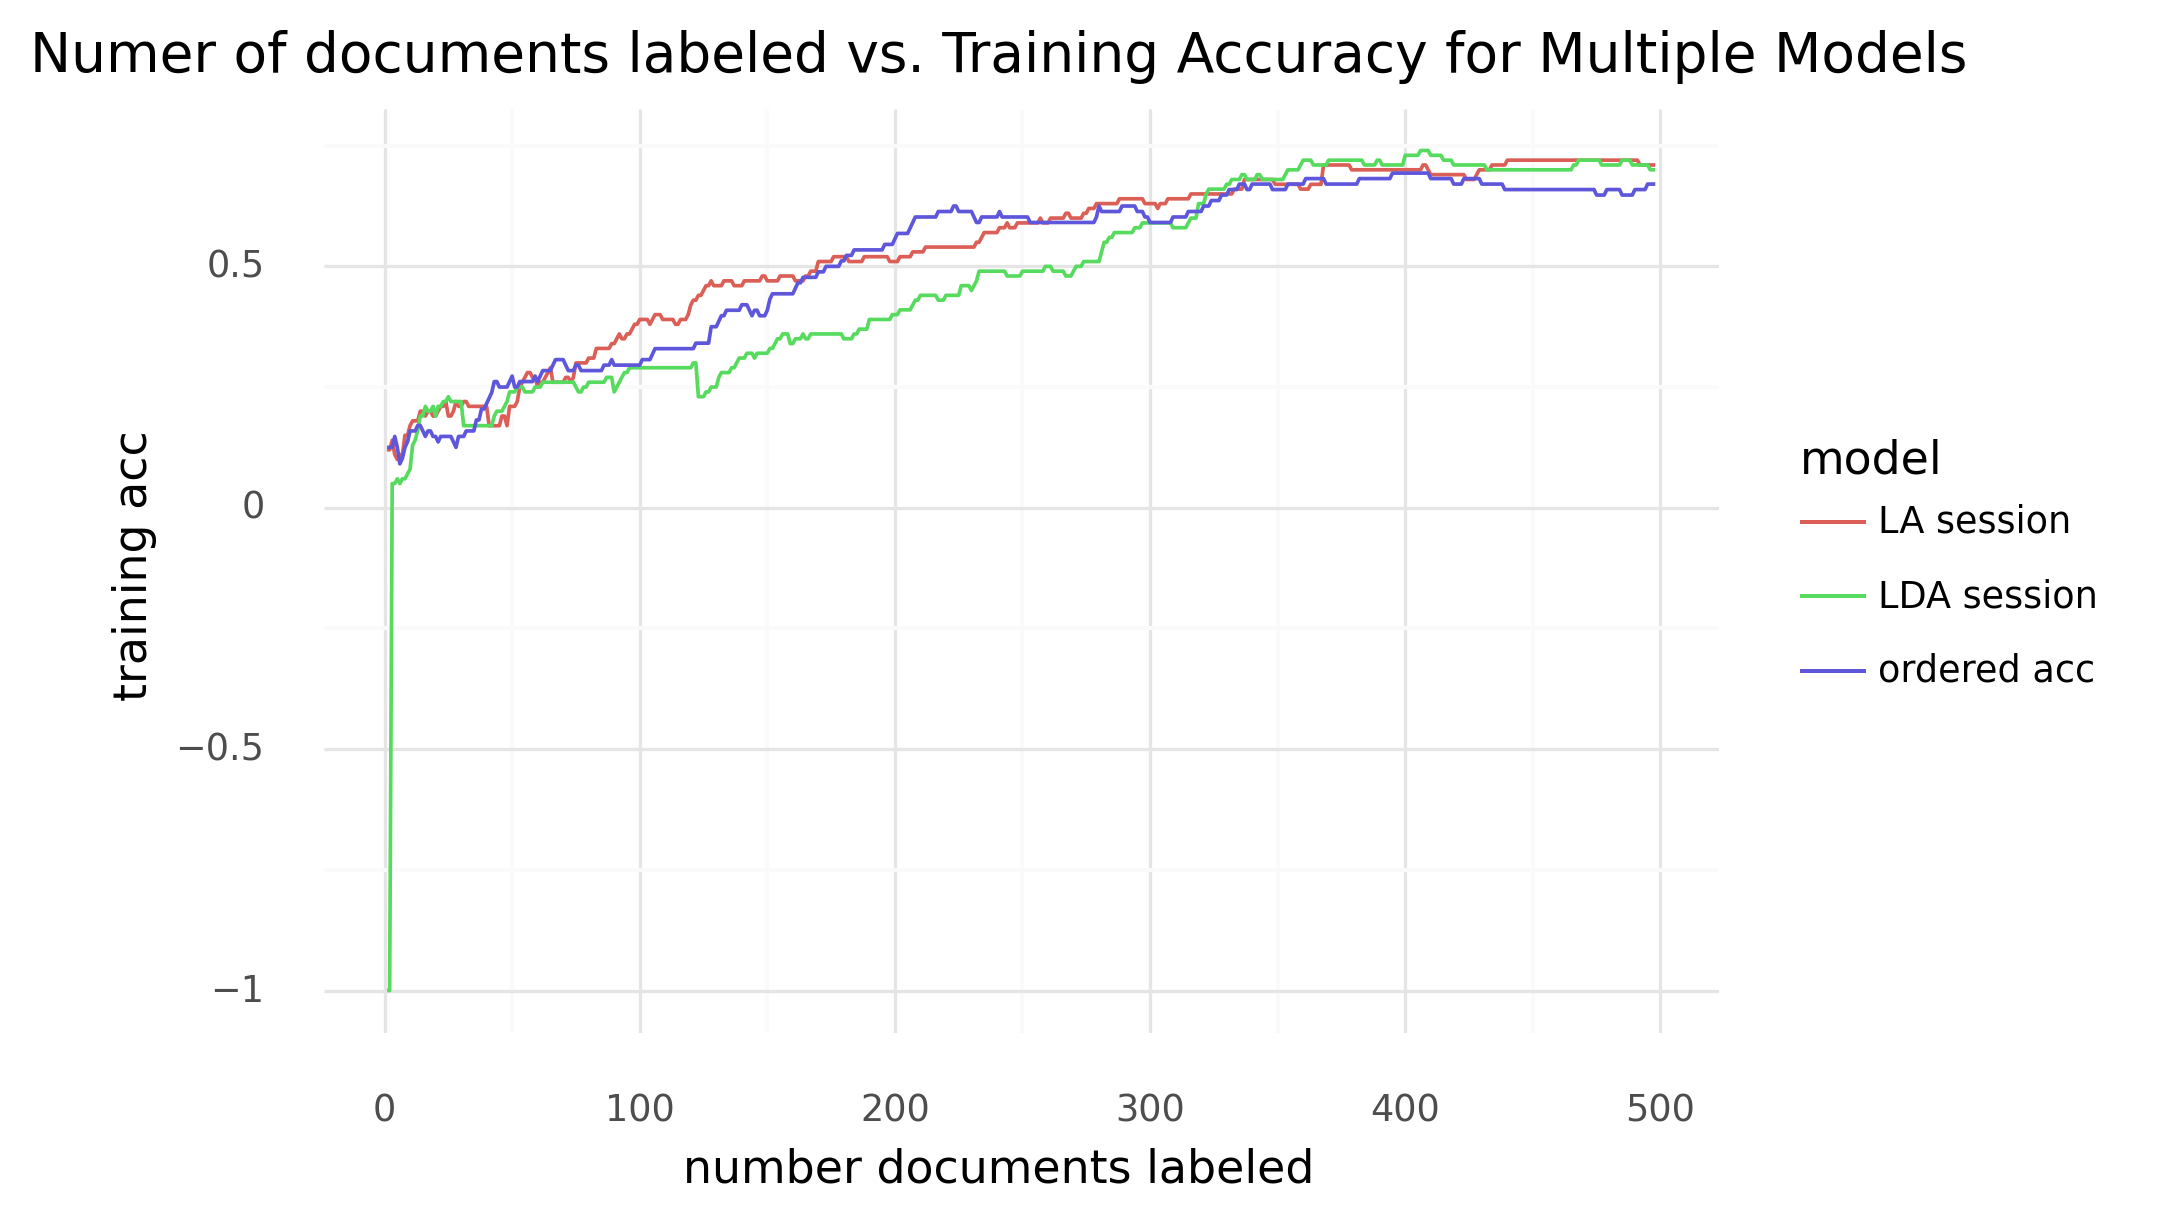
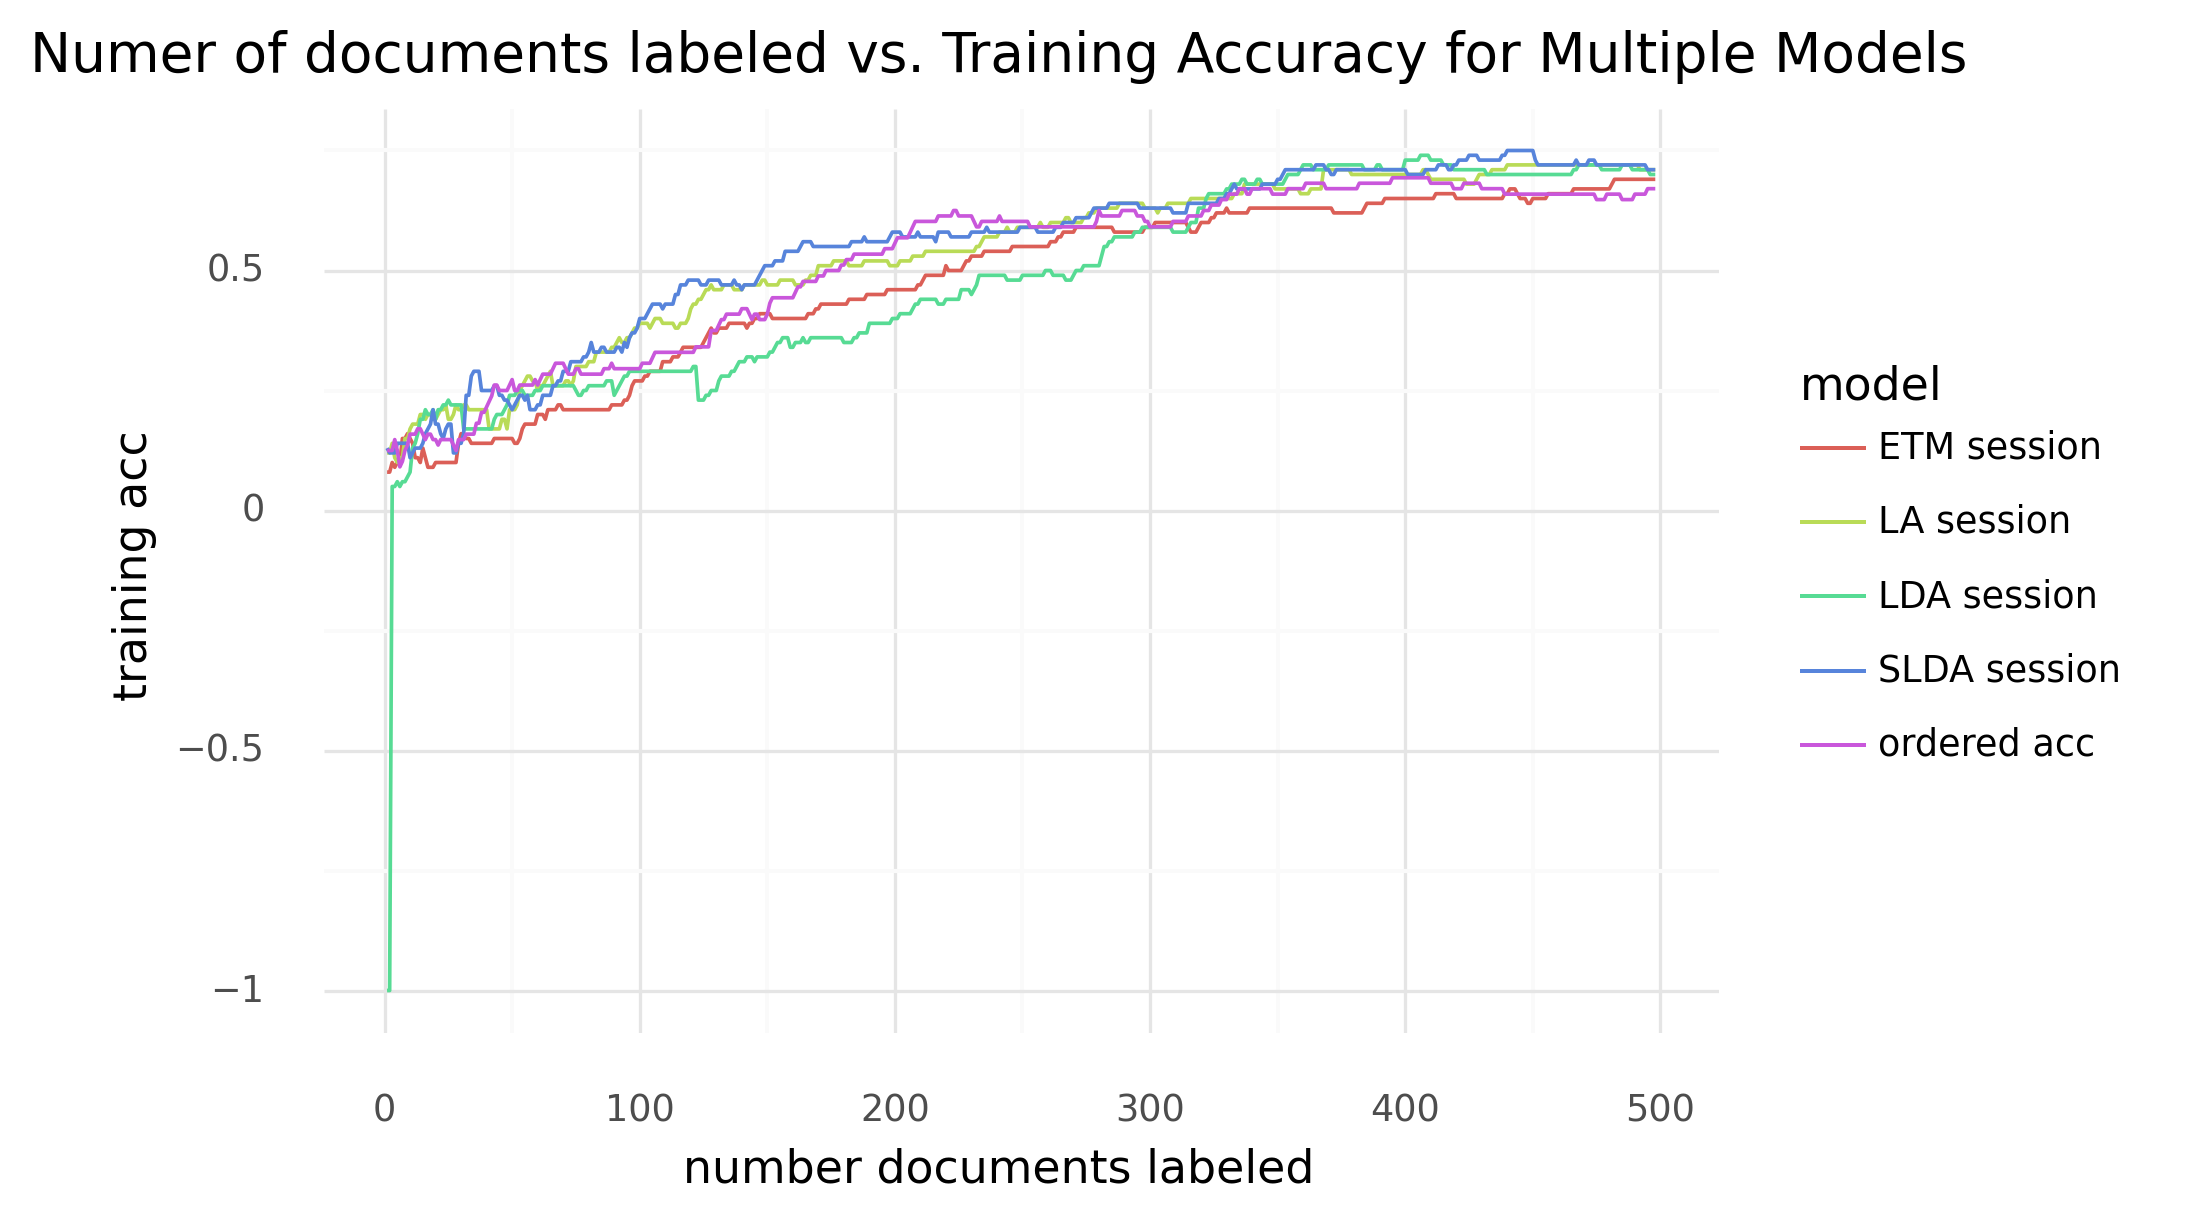
message

diff --git a/plot_figure.py b/plot_figure.py
@@ -101,6 +101,8 @@ database_name = 'local_users.db'
 acc_type = 'global_testing_acc'
 LA_session_acc = read_accuracy_db(1, database_name, acc_type)
 LDA_session_acc = read_accuracy_db(2, database_name, acc_type)
+SLDA_session_acc = read_accuracy_db(3, database_name, acc_type)
+ETM_session_acc = read_accuracy_db(4, database_name, acc_type)
 logistic_acc = read_user_accuracy_np('./np_files/classifier_results.npy')
 
 
@@ -108,10 +110,10 @@ min_len = min(len(logistic_acc[0]), len(logistic_acc[1]), len(logistic_acc[2]), 
 
 
 data_to_plot = {
-                'number documents labeled': [i+1 for i in range(min_len)] * 3,
+                'number documents labeled': [i+1 for i in range(min_len)] * 5,
 
-                'training acc': LA_session_acc[2:] + logistic_acc[3].tolist() + LDA_session_acc[2:],
-                'model': ['LA session'] * min_len + ['ordered acc'] * min_len + ['LDA session'] * min_len
+                'training acc': LA_session_acc[2:] + logistic_acc[3].tolist() + LDA_session_acc[2:] + SLDA_session_acc[2:] + ETM_session_acc[2:],
+                'model': ['LA session'] * min_len + ['ordered acc'] * min_len + ['LDA session'] * min_len + ['SLDA session'] * min_len + ['ETM session'] * min_len
                 }
 
 
